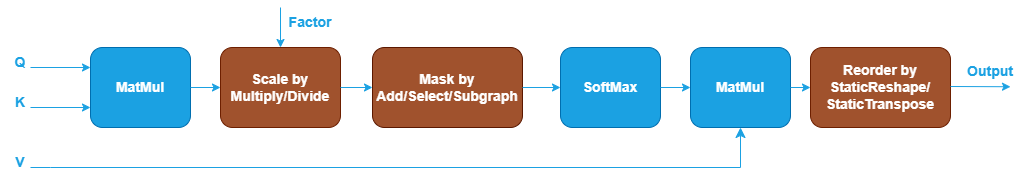
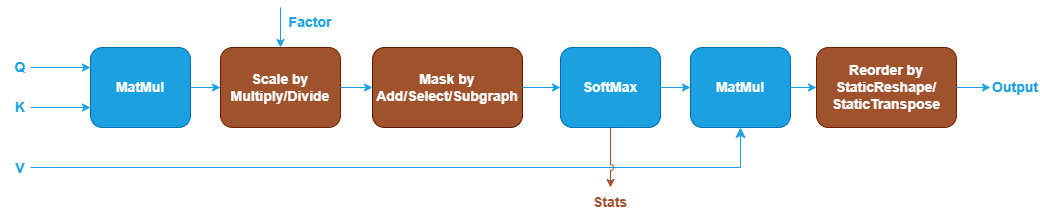
doc: graph: support SDPA training

diff --git a/doc/graph/fusion_patterns/sdpa.md b/doc/graph/fusion_patterns/sdpa.md
@@ -31,11 +31,11 @@ SDPA graph, getting partition from the graph, and optimizing the kernels
 underneath. In general, an SDPA pattern is defined as a directional acyclic
 graph (DAG) using oneDNN Graph API.
 
-### Floating-point SDPA
+### Floating-point SDPA for Inference and Training Forward
 
-oneDNN defines floating-point (f32, bf16, or f16) SDPA as follows. The blue
-nodes are required when defining an SDPA pattern while the brown parts are
-optional.
+oneDNN defines floating-point (f32, bf16, or f16) SDPA for inference and
+training forward as follows. The blue nodes are required when defining an SDPA
+pattern while the brown nodes are optional.
 
 ![SDPA pattern](images/sdpa.png)
 
@@ -77,8 +77,8 @@ optional.
    ![SDPA-mask-3](images/sdpa-mask-3.png) ![SDPA-mask-4](images/sdpa-mask-4.png)
 
 4. The SoftMax operation takes the masked output and transforms it into
-   probabilities between 0 and 1. See [SoftMax](@ref dev_guide_op_softmax)
-   operation in Graph API.
+   probabilities between 0 and 1. For training forward, the `Stats` output is
+   needed. See [SoftMax](@ref dev_guide_op_softmax) operation in Graph API.
 5. The second MatMul calculates the dot products between the probabilities after
    SoftMax and Value.
 6. The Reorder node is optional and used to reshape or transpose the attention
@@ -89,6 +89,39 @@ optional.
 
    ![SDPA-Reorder](images/sdpa-reorder.png)
 
+### Floating-point SDPA for Training Backward
+
+oneDNN defines floating-point (f32, bf16, or f16) SDPA for training backward as
+follows. The blue nodes are required while the brown nodes are optional.
+
+![SDPA backward pattern](images/sdpa_backward.png)
+
+1. The first MatMul computes the score between Query and Key, similar to
+   inference and training forward. See [MatMul](@ref dev_guide_op_matmul) in
+   Graph API.
+2. The Scale node is optional and scales the output of the first MatMul using a
+   scaling factor. This can be implemented using [Multiply](@ref dev_guide_op_multiply)
+   or [Divide](@ref dev_guide_op_divide) in Graph API.
+3. The Mask node is optional and applies an attention mask to the output of the
+   previous Scale node. For training backward, only explicit user-generated
+   masks are currently supported. The mask definition is the same as in
+   inference and training forward.
+4. The Subtract and Exp operations take the masked output and `Stats` as inputs
+   and recover the probabilities computed by SoftMax in the training forward
+   pass. See [Subtract](@ref dev_guide_op_subtract) and [Exp](@ref dev_guide_op_exp)
+   in Graph API.
+5. The TypeCast and MatMul operations after Exp are used to compute the
+   gradients with respect to Value. TypeCast is required for bf16 and f16
+   training scenarios. See [TypeCast](@ref dev_guide_op_typecast) in Graph API.
+6. The MatMul takes the output gradients (`dO`) and the Value as inputs to
+   compute the gradients of the probabilities.
+7. The SoftMaxBackward operation computes the gradients of the scaled output.
+   See [SoftMaxBackward](@ref dev_guide_op_softmaxbackward) in Graph API.
+8. The Scale node after SoftMaxBackward corresponds to the forward Scale node
+   and is used to compute the gradients of the score.
+9. The TypeCast and two MatMul operations after the Scale node compute the
+   gradients with respect to Query and Key, respectively. TypeCast is required
+   for bf16 and f16 training scenarios.
 
 ## Data Types
 
@@ -96,12 +129,12 @@ oneDNN supports the floating-point SDPA pattern with data types f32, bf16, and
 f16. You can specify the data type via the input and output logical tensors'
 data type fields for each operation.
 
-oneDNN supports bf16 or f16 SDPA with f32 intermediate type, which means the
-Q/K/V tensors have bf16 or f16 data type while the output of the first MatMul,
-Scale, Mask, and the input of SoftMax are in f32 data type.
-
-oneDNN supports the quantized SDPA pattern with int8-f32 mixed precision,
-int8-bf16 mixed precision, and int8-f16 mixed precision data types.
+oneDNN supports bf16 or f16 SDPA with f32 intermediate type. For
+inference and traing forward, the Q, K and V tensors use bf16 or f16 data types, while
+the outputs of the first MatMul, Scale, Mask, and the input of SoftMax are in
+f32. Similarly, in training backward, the Q, K, V, dO, dQ, dK and dV tensors use
+bf16 or f16, while the Stats input uses f32. The intermediate tensors are in
+f32, except those after TypeCast, which cast to bf16 or f16.
 
 The definition of the data types and support status on different CPU and GPU
 platforms follow the general description in @ref dev_guide_data_types.
@@ -123,19 +156,21 @@ platforms follow the general description in @ref dev_guide_data_types.
    shape or the shapes can be properly broadcasted based on the operation
    attribute.
 3. CPU
-   - Optimized implementation is available for 4D Q/K tensors with shape defined
-     as (N, H, S, D_qk) and V tensor with shape defined as (N, H, S, D_v).
-   - Optimized implementation is available for OpenMP runtime and Threadpool
+   - Optimized implementation for inference is available for 4D Q/K tensors with
+     shape defined as (N, H, S, D_qk) and V tensor with shape defined as (N, H, S, D_v).
+   - Optimized implementation for inference is available for OpenMP runtime and Threadpool
      runtime on Intel Architecture Processors.
    - Specifically for OpenMP runtime, the optimized implementation requires `N *
      H > 2 * thread number` to get enough parallelism.
+   - Optimized implementation for training forward and backward is not available.
 4. GPU
-   - Optimized implementation is available for 4D Q/K tensors with shape defined
-     as (N, H, S, D_qk) and V tensor with shape defined as (N, H, S, D_v) where
-     D_qk equals D_v.
-   - Optimized implementation is available for `f16` or `bf16` SDPA with `f32`
-     intermediate data type and `D <= 512` on Intel Graphics Products with
-     Intel(R) Xe Matrix Extensions (Intel(R) XMX) support.
+   - Optimized implementation for inference is available for 4D Q/K tensors with
+     shape defined as (N, H, S, D_qk) and V tensor with shape defined as (N, H,
+     S, D_v) where D_qk equals D_v.
+   - Optimized implementation for inference is available for `f16` or `bf16`
+     SDPA with `f32` intermediate data type and `D <= 512` on Intel Graphics
+     Products with Intel(R) Xe Matrix Extensions (Intel(R) XMX) support.
+   - Optimized implementation for training forward and backward is not available.
 
 ## Example
 
